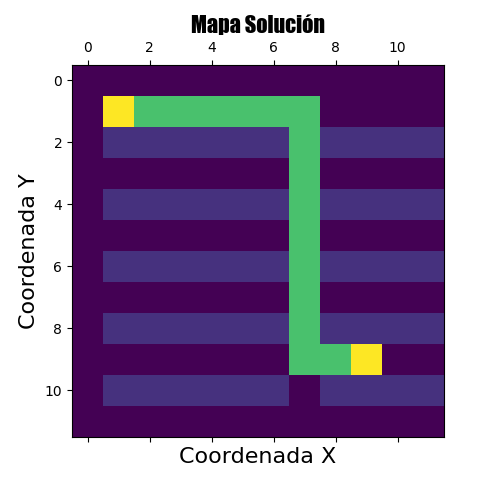
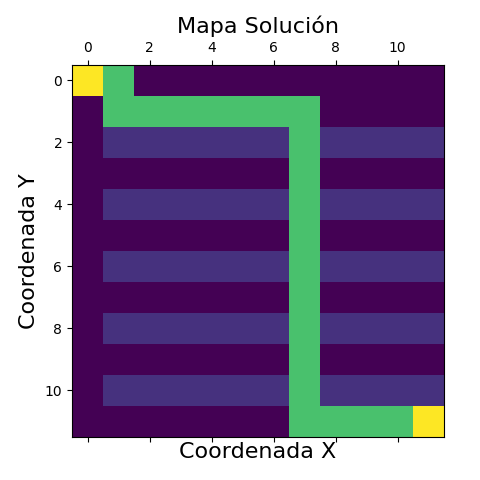
Terminar de hacer funcionar todas las funcionas optimizadas

Changed region(s): [[0.375, 0.7188, 0.9375, 0.9688], [0.375, 0.0312, 0.7188, 0.0938], [0.125, 0.125, 0.2812, 0.2812]]

diff --git a/Movimiento/test.py b/Movimiento/test.py
@@ -1,0 +1,123 @@
+class Node():
+    """A node class for A* Pathfinding"""
+
+    def __init__(self, parent=None, position=None):
+        self.parent = parent
+        self.position = position
+
+        self.g = 0
+        self.h = 0
+        self.f = 0
+
+    def __eq__(self, other):
+        return self.position == other.position
+
+
+def astar(maze, start, end):
+    """Returns a list of tuples as a path from the given start to the given end in the given maze"""
+
+    # Create start and end node
+    start_node = Node(None, start)
+    start_node.g = start_node.h = start_node.f = 0
+    end_node = Node(None, end)
+    end_node.g = end_node.h = end_node.f = 0
+
+    # Initialize both open and closed list
+    open_list = []
+    closed_list = []
+
+    # Add the start node
+    open_list.append(start_node)
+
+    # Loop until you find the end
+    while len(open_list) > 0:
+
+        # Get the current node
+        current_node = open_list[0]
+        current_index = 0
+        for index, item in enumerate(open_list):
+            if item.f < current_node.f:
+                current_node = item
+                current_index = index
+
+        # Pop current off open list, add to closed list
+        open_list.pop(current_index)
+        closed_list.append(current_node)
+
+        # Found the goal
+        if current_node == end_node:
+            path = []
+            current = current_node
+            while current is not None:
+                path.append(current.position)
+                current = current.parent
+            return path[::-1] # Return reversed path
+
+        # Generate children
+        children = []
+        for new_position in [(0, -1), (0, 1), (-1, 0), (1, 0), (-1, -1), (-1, 1), (1, -1), (1, 1)]: # Adjacent squares
+
+            # Get node position
+            node_position = (current_node.position[0] + new_position[0], current_node.position[1] + new_position[1])
+
+            # Make sure within range
+            if node_position[0] > (len(maze) - 1) or node_position[0] < 0 or node_position[1] > (len(maze[len(maze)-1]) -1) or node_position[1] < 0:
+                continue
+
+            # Make sure walkable terrain
+            if maze[node_position[0]][node_position[1]] != 0:
+                continue
+
+            # Create new node
+            new_node = Node(current_node, node_position)
+
+            # Append
+            children.append(new_node)
+
+        # Loop through children
+        for child in children:
+
+            # Child is on the closed list
+            for closed_child in closed_list:
+                if child == closed_child:
+                    continue
+
+            # Create the f, g, and h values
+            child.g = current_node.g + 1
+            child.h = ((child.position[0] - end_node.position[0]) ** 2) + ((child.position[1] - end_node.position[1]) ** 2)
+            child.f = child.g + child.h
+
+            # Child is already in the open list
+            for open_node in open_list:
+                if child == open_node and child.g > open_node.g:
+                    continue
+
+            # Add the child to the open list
+            open_list.append(child)
+
+
+def main():
+
+    maze = [[0, 0, 0, 0, 0, 0, 0, 0, 0, 0, 0, 0,0],
+            [0, 0, 0, 0, 0, 0, 0, 0, 0, 0, 0, 0,0],
+            [0, 1, 1, 1, 1, 1, 1, 0, 1, 1, 1, 1,0],
+            [0, 0, 0, 0, 0, 0, 0, 0, 0, 0, 0, 0,0],
+            [0, 1, 1, 1, 1, 1, 1, 0, 1, 1, 1, 1,0],
+            [0, 0, 0, 0, 0, 0, 0, 0, 0, 0, 0, 0,0],
+            [0, 1, 1, 1, 1, 1, 1, 0, 1, 1, 1, 1,0],
+            [0, 0, 0, 0, 0, 0, 0, 0, 0, 0, 0, 0,0],
+            [0, 1, 1, 1, 1, 1, 1, 0, 1, 1, 1, 1,0],
+            [0, 0, 0, 0, 0, 0, 0, 0, 0, 0, 0, 0,0],
+            [0, 1, 1, 1, 1, 1, 1, 0, 1, 1, 1, 1,0],
+            [0, 0, 0, 0, 0, 0, 0, 0, 0, 0, 0, 0,0],
+            [0, 0, 0, 0, 0, 0, 0, 0, 0, 0, 0, 0,0]]
+
+    start = (7, 7)
+    end = (12, 12)
+
+    path = astar(maze, start, end)
+    print(path)
+
+
+if __name__ == '__main__':
+    main()

diff --git a/Clasificador-de-imagenes/Clasificacion.py b/Clasificador-de-imagenes/Clasificacion.py
@@ -48,8 +48,9 @@ ax = fig.add_subplot(111, projection='3d')
 
 
 def Data_base():
-
-    print("\nComienza carga de Data Base")
+    print("\n--------------------------------------------------------------------")
+    print("Comienza carga de Data Base")
+    print("--------------------------------------------------------------------\n")
     global fig
     global ax
     global datos
@@ -127,7 +128,8 @@ def Data_base():
     ax.set_ylabel('componente 2')
     ax.set_zlabel('componente 4')
 
-    plt.show()
+    plt.savefig("Graficos/Grafico_Base_de_datos ")
+    #plt.show()
 
     print("Analisis completo de la base de datos de YTrain")
     print("Cantidad de imagenes analizadas: ")
@@ -136,17 +138,20 @@ def Data_base():
     # Elemento a evaluar
     #Recordar aplicar Transformacion.py cuando se quiera evaluar una nueva imagen.
     test = Elemento()
+
+    print("--------------------------------------------------------------------\n")
     return test
 
 
 
 
 
-def clasifica(numero, test):
+def clasifica(numero, test, numero_caja):
     respuesta = []
     global fig
     global ax
     global datos
+    global contador_cajas
     
     nombre = './Data Base/YEvaluacion/photo'+str(numero)+'.jpg'
     image = io.imread(nombre)
@@ -246,7 +251,8 @@ def clasifica(numero, test):
     ax.set_ylabel('componente 2')
     ax.set_zlabel('componente 4')
 
-    plt.show()
+    plt.savefig("Graficos/Means_de_caja_"+ str(numero_caja))
+    #plt.show()
 
     # Asignacion, Actualizacion y Convergencia
     tornillo_flag = True
@@ -425,16 +431,29 @@ def clasifica(numero, test):
 
     return respuesta
 
+def Mostrar_Apilado(Apilado):
+    for i in range(len(Apilado)):
+        print("-------------------------")
+        print("|\t", Apilado[len(Apilado)-1-i]," \t|")
+    print("=========================\n")
 
 if __name__ == '__main__':
     orden = []
+    flag = True
+    while(flag):
+        cant_cajas = int(input("\nIntroduce la cantidad de cajas apiladas: "))
 
-    cant_cajas = int(input("Introduce la cantidad de cajas apiladas: "))
+        if(cant_cajas>0):
+            flag= False
+        else:
+            print("Error - Ingrese una cantidad de cajas valida")
+
     fotos_cajas = [] #lista con los valores de las fotos a evaluar
 
     #Pedir todos los numeros de las fotos a evaluar
     for i in range(cant_cajas):
         text = "Introduce numero de la foto de la Caja #" + str(i+1) + ": "
+        contador_cajas = i+1
         numero = input(text)
         fotos_cajas.append(numero)
     
@@ -442,11 +461,13 @@ if __name__ == '__main__':
     test = Data_base()
 
     #Hacer el analisis de imagen con cada imagen
-    for i in range(cant_cajas):    
-        print("\nAnalizando la Caja #", i+1)  
+    for i in range(cant_cajas):
+        print("\n--------------------------------------------------------------------")    
+        print("Analizando la Caja #", i+1)
+        print("--------------------------------------------------------------------\n")  
         numero = fotos_cajas[i]
-        #pieza=clasificacion(numero)
-        pieza=clasifica(numero,test)
+        #pieza=clasificacion(numero de foto, la base de datos, el numero de la caja a evaluar)
+        pieza=clasifica(numero,test,i+1)
         if(pieza[0] == pieza[len(pieza)-1]):
             print("La Caja # " + str(i+1) + " contiene: ", pieza[0])
             orden.append(pieza[0])
@@ -454,7 +475,9 @@ if __name__ == '__main__':
             print("La Caja # " + str(i+1) + " contiene: segun KNN ", pieza[0], " y segun KMeans ", pieza[len(pieza)-1])
             orden.append(pieza[0])
 
-    print("\n",orden)
+    print("\n",orden,"\n")
+
+    Mostrar_Apilado(orden)
 
     #Generar un txt con el orden de apilamiento
     file = open("../Apilamiento/datos.txt", "w")

diff --git a/Apilamiento/Apilamiento.py b/Apilamiento/Apilamiento.py
@@ -26,7 +26,7 @@ def Soltar(x): #Soltar un bloque en la Mesa
     Instrucciones.append("\tPRECOND: Sujetar(" + x + ")")
     Instrucciones.append("\tEFECTO: En_Mesa (" + x + "), Brazo_Libre, Libre(" + x + ")")
 
-def Solucion(Posicion_Inicial, Posicion_Final):
+def Solucion(Posicion_Inicial, Posicion_Final): #Secuencia de pasos a seguir
     Orden = [Posicion_Inicial[0]]
     Plan = []
     global Intrucciones
@@ -50,24 +50,20 @@ def Solucion(Posicion_Inicial, Posicion_Final):
         Plan.append("Poner " + mover_pieza + " sobre la Mesa ")
         Orden.append(mover_pieza)
 
-    #Buscamos la base de la nueva pila
-    pie = Orden.index(Posicion_Final[0])
-    i=0
-    j=1
+    #Secuencia de Apilamiento para obtener la posicion final
     flag = True
-    while(flag):
+    i=1 #Porque la base del nuevo apilado esta sobre la mesa
+    while (flag):
         if(i == len(Posicion_Final)-1):
-            flag=False
-        
-        if(Orden[i] == Posicion_Final[j] ):
-            Plan.append("Poner " + Orden[i] + " sobre " + Posicion_Final[j-1])
-            Sujetar(Orden[i])
-            Apilar(Orden[i], Posicion_Final[j-1])
-            i=0
-            j+=1
-        
-        i+=1
-    
+            flag = False
+
+        for j in range(len(Orden)):
+            if(Posicion_Final[i]==Orden[j]):
+                Sujetar(Orden[j])
+                Apilar(Orden[j], Posicion_Final[i-1])
+                Plan.append("Poner " + Orden[j] + " sobre " + Posicion_Final[i-1])
+        i+=1      
+
     #Mostrar Solucionn para el Usuario
     print("\nSolucion para el Usuario\n")    
     for i  in range(len(Plan)):
@@ -105,7 +101,6 @@ if __name__ == '__main__':
         nuevo_objetivo = input("Separado por una coma(,): ")
         secuencia_objetivo = nuevo_objetivo.split(",")
         
-
         #Validamos los datos ingresados
         #Convertimos la lista en un ser donde no toma elementos repetidos
         if(len(Posicion_Inicial) == len(set(secuencia_objetivo))):

diff --git a/Movimiento/A_estrella.py b/Movimiento/A_estrella.py
@@ -134,11 +134,37 @@ if __name__ == '__main__':
     maze = Lab.Mapa()
     MostrarMapa('mapa.png','Mapa', maze)
 
-    print('\nIngrese la coordenada del punto A')
-    Ax = int(input ('Coordenada X: '))
-    Ay = int(input ('Coordenada Y: '))
-    print('\nIngrese la coordenada del punto B')
-    Bx = int(input ('Coordenada X: '))
-    By = int(input ('Coordenada Y: '))
-     
+    #Saber el tamaño de la matriz del laberinto
+    val_y=len(maze) -1 #Alto de laberinto
+    val_x=len(maze[0]) -1 #Ancho del laberinto
+
+    #Validar datos para una solución valida
+    flag = True
+    while(flag):
+        #Solicitamos Coordenadas
+        print('\nIngrese la coordenada del punto A')
+        Ax = int(input ('Coordenada X: '))
+        Ay = int(input ('Coordenada Y: '))
+
+        #Validamos que este dentro del mapa
+        if(0<=Ax<=val_x) and (0<=Ay<=val_y):
+            flag = False
+        else:
+            print("Error - Coordenada fuera del Laberinto")
+            print("Ingrese una Coordenada valida")
+
+    flag = True
+    while(flag):
+        #Solicitamos Coordenadas
+        print('\nIngrese la coordenada del punto B')
+        Bx = int(input ('Coordenada X: '))
+        By = int(input ('Coordenada Y: '))
+
+        #Validamos que este dentro del mapa
+        if(0<=Bx<=val_x) and (0<=By<=val_y):
+            flag = False
+        else:
+            print("Error - Coordenada fuera del Laberinto")
+            print("Ingrese una Coordenada valida")
+
     main(Ax, Ay, Bx, By)

diff --git a/Movimiento/Laberinto.py b/Movimiento/Laberinto.py
@@ -1,6 +1,7 @@
 def Mapa():
     #Definir el mapa del problema
     #Los 0 es por donde se puede pasar y los 1 por donde no se puede cruzar
+        
     maze = [[0, 0, 0, 0, 0, 0, 0, 0, 0, 0, 0, 0],
             [0, 0, 0, 0, 0, 0, 0, 0, 0, 0, 0, 0],
             [0, 1, 1, 1, 1, 1, 1, 0, 1, 1, 1, 1],
@@ -13,7 +14,6 @@ def Mapa():
             [0, 0, 0, 0, 0, 0, 0, 0, 0, 0, 0, 0],
             [0, 1, 1, 1, 1, 1, 1, 0, 1, 1, 1, 1],
             [0, 0, 0, 0, 0, 0, 0, 0, 0, 0, 0, 0]]
-
     """
     maze = [[0, 0, 0, 0, 0, 0, 0, 0, 0, 0, 0, 0, 0, 0, 0, 0, 0],
             [0, 0, 0, 0, 0, 0, 0, 0, 0, 0, 0, 0, 0, 0, 0, 0, 0],
